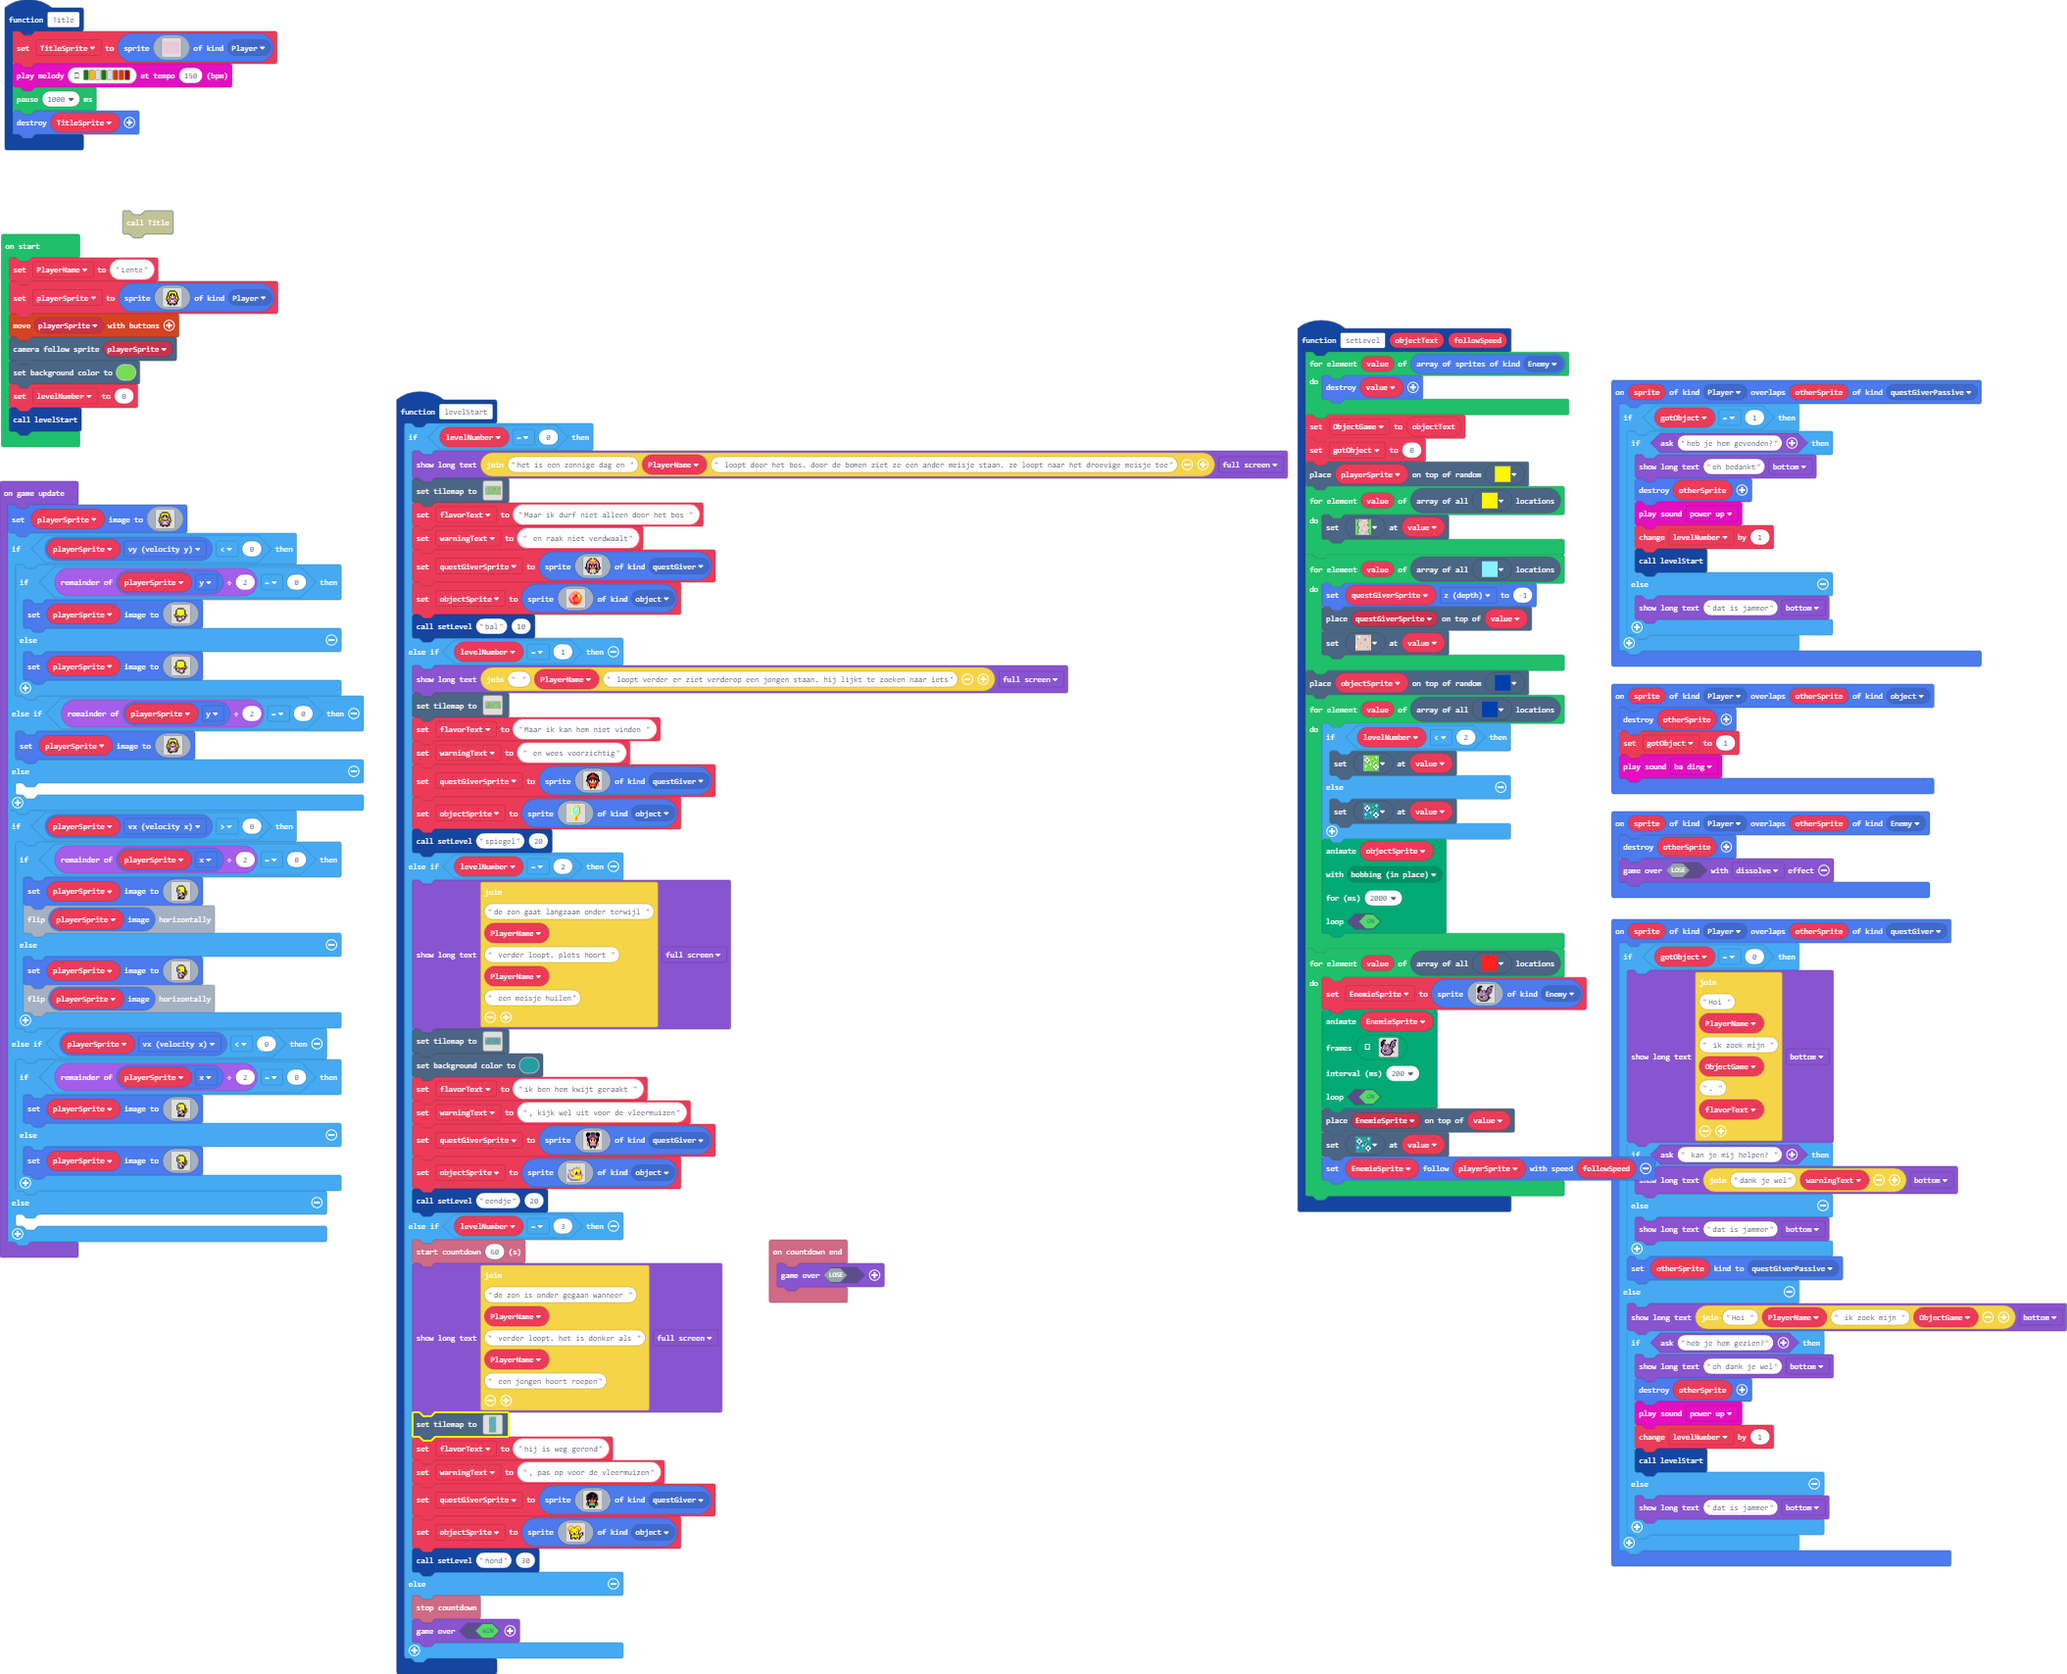
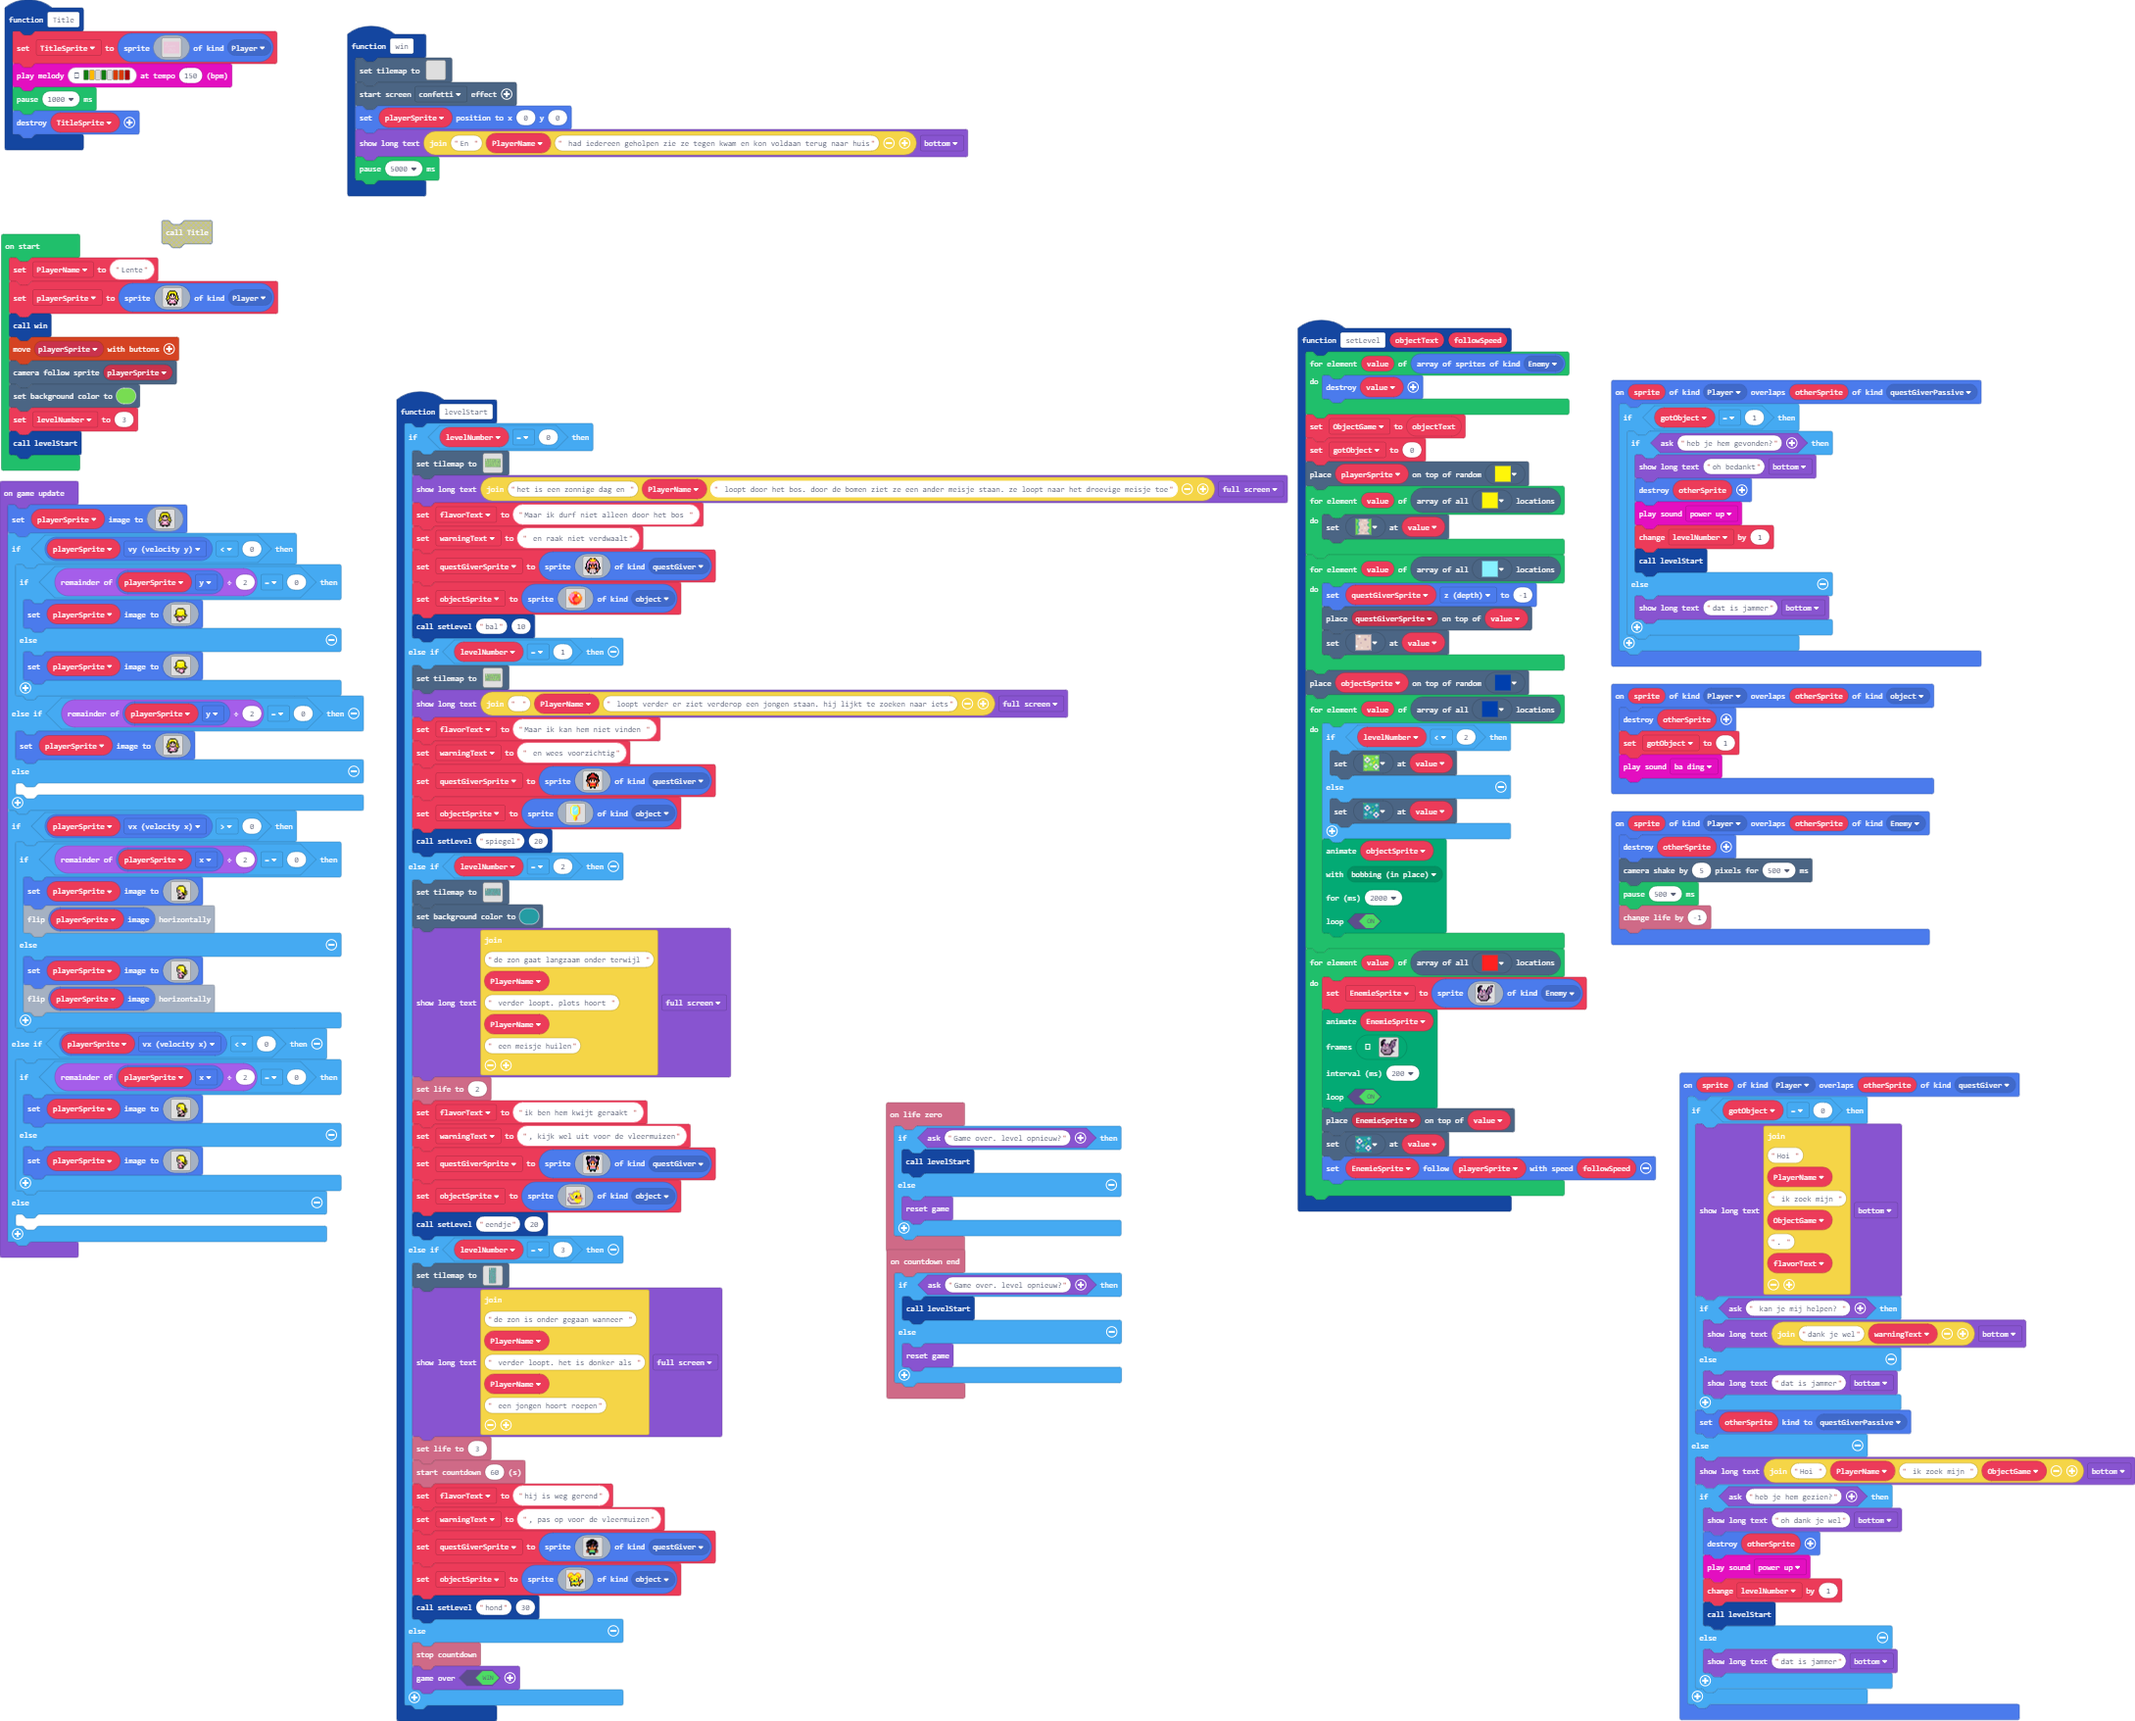
changed win condistions

diff --git a/main.ts b/main.ts
@@ -255,7 +255,6 @@ c c c f f f f f f c c b b c . .
 }
 function levelStart () {
     if (levelNumber == 0) {
-        game.showLongText("het is een zonnige dag en " + PlayerName + " loopt door het bos. door de bomen ziet ze een ander meisje staan. ze loopt naar het droevige meisje toe", DialogLayout.Full)
         tiles.setTilemap(tiles.createTilemap(
[1 lines of base64/hex data omitted]
             img`
@@ -286,6 +285,7 @@ function levelStart () {
             [myTiles.tile0,sprites.castle.tileGrass1,sprites.castle.tilePath2,sprites.castle.tilePath1,sprites.castle.tilePath3,sprites.castle.tilePath5,sprites.castle.tilePath4,sprites.castle.tilePath6,sprites.castle.tilePath7,sprites.castle.tilePath9,sprites.castle.tileGrass3,sprites.castle.tileGrass2,sprites.builtin.forestTiles18,sprites.builtin.forestTiles17,sprites.builtin.forestTiles19,sprites.castle.tilePath8,sprites.castle.saplingOak,sprites.castle.saplingPine,sprites.castle.rock1,sprites.castle.rock0,sprites.castle.rock2,myTiles.tile1,myTiles.tile2,myTiles.tile3,myTiles.tile4,myTiles.tile5,myTiles.tile6,sprites.castle.shrub,sprites.builtin.forestTiles0,sprites.builtin.forestTiles2,sprites.builtin.forestTiles3,sprites.builtin.forestTiles22,sprites.builtin.forestTiles21,sprites.builtin.forestTiles4,sprites.builtin.forestTiles1,sprites.castle.tileDarkGrass3],
             TileScale.Sixteen
         ))
+        game.showLongText("het is een zonnige dag en " + PlayerName + " loopt door het bos. door de bomen ziet ze een ander meisje staan. ze loopt naar het droevige meisje toe", DialogLayout.Full)
         flavorText = "Maar ik durf niet alleen door het bos "
         warningText = " en raak niet verdwaalt"
         questGiverSprite = sprites.create(img`
@@ -326,7 +326,6 @@ f b b f f f e e e e f f f b b f
 `, SpriteKind.object)
         setLevel("bal", 10)
     } else if (levelNumber == 1) {
-        game.showLongText("" + PlayerName + " loopt verder er ziet verderop een jongen staan. hij lijkt te zoeken naar iets", DialogLayout.Full)
         tiles.setTilemap(tiles.createTilemap(
[1 lines of base64/hex data omitted]
             img`
@@ -353,6 +352,7 @@ f b b f f f e e e e f f f b b f
             [myTiles.tile0,sprites.castle.tileGrass1,sprites.castle.tilePath2,sprites.castle.tilePath1,sprites.castle.tilePath3,sprites.castle.tilePath5,sprites.castle.tilePath4,sprites.castle.tilePath6,sprites.castle.tilePath7,sprites.castle.tilePath9,sprites.castle.tileGrass3,sprites.castle.tileGrass2,sprites.builtin.forestTiles18,sprites.builtin.forestTiles17,sprites.builtin.forestTiles19,sprites.castle.tilePath8,sprites.castle.saplingOak,sprites.castle.saplingPine,sprites.castle.rock1,sprites.castle.rock0,sprites.castle.rock2,myTiles.tile1,myTiles.tile2,myTiles.tile3,myTiles.tile4,myTiles.tile5,myTiles.tile6,sprites.castle.shrub,sprites.castle.tileDarkGrass1,sprites.castle.tileDarkGrass3,sprites.castle.tileDarkGrass2],
             TileScale.Sixteen
         ))
+        game.showLongText("" + PlayerName + " loopt verder er ziet verderop een jongen staan. hij lijkt te zoeken naar iets", DialogLayout.Full)
         flavorText = "Maar ik kan hem niet vinden "
         warningText = " en wees voorzichtig"
         questGiverSprite = sprites.create(img`
@@ -393,7 +393,6 @@ f b b f f f e e e e f f f b b f
 `, SpriteKind.object)
         setLevel("spiegel", 20)
     } else if (levelNumber == 2) {
-        game.showLongText("de zon gaat langzaam onder terwijl " + PlayerName + " verder loopt. plots hoort " + PlayerName + " een meisje huilen", DialogLayout.Full)
         tiles.setTilemap(tiles.createTilemap(
[1 lines of base64/hex data omitted]
             img`
@@ -421,6 +420,8 @@ f b b f f f e e e e f f f b b f
             TileScale.Sixteen
         ))
         scene.setBackgroundColor(6)
+        game.showLongText("de zon gaat langzaam onder terwijl " + PlayerName + " verder loopt. plots hoort " + PlayerName + " een meisje huilen", DialogLayout.Full)
+        info.setLife(2)
         flavorText = "ik ben hem kwijt geraakt "
         warningText = ", kijk wel uit voor de vleermuizen"
         questGiverSprite = sprites.create(img`
@@ -461,10 +462,8 @@ c b d d d d d 5 5 5 5 5 5 5 b .
 `, SpriteKind.object)
         setLevel("eendje", 20)
     } else if (levelNumber == 3) {
-        info.startCountdown(60)
-        game.showLongText("de zon is onder gegaan wanneer " + PlayerName + " verder loopt. het is donker als " + PlayerName + " een jongen hoort roepen", DialogLayout.Full)
         tiles.setTilemap(tiles.createTilemap(
[2 lines of base64/hex data omitted]
             img`
 2 2 2 2 2 2 2 2 2 2 2 2 2 2 2 2 2 2 2 
 2 . . . . . 2 . . . . . . . . . . . 2 
@@ -512,6 +511,9 @@ c b d d d d d 5 5 5 5 5 5 5 b .
             [myTiles.tile0,sprites.castle.tileGrass1,sprites.castle.tilePath2,sprites.castle.tilePath1,sprites.castle.tilePath3,sprites.castle.tilePath5,sprites.castle.tilePath4,sprites.castle.tilePath6,sprites.castle.tilePath7,sprites.castle.tilePath9,sprites.castle.tileGrass3,sprites.castle.tileGrass2,sprites.builtin.forestTiles18,sprites.builtin.forestTiles17,sprites.builtin.forestTiles19,sprites.castle.tilePath8,sprites.castle.saplingOak,sprites.castle.saplingPine,sprites.castle.rock1,sprites.castle.rock0,sprites.castle.rock2,myTiles.tile1,myTiles.tile2,myTiles.tile3,myTiles.tile4,myTiles.tile5,myTiles.tile6,sprites.castle.shrub,sprites.castle.tileDarkGrass3,sprites.castle.tileDarkGrass1,sprites.castle.tileDarkGrass2],
             TileScale.Sixteen
         ))
+        game.showLongText("de zon is onder gegaan wanneer " + PlayerName + " verder loopt. het is donker als " + PlayerName + " een jongen hoort roepen", DialogLayout.Full)
+        info.setLife(3)
+        info.startCountdown(60)
         flavorText = "hij is weg gerend"
         warningText = ", pas op voor de vleermuizen"
         questGiverSprite = sprites.create(img`
@@ -567,6 +569,35 @@ sprites.onOverlap(SpriteKind.Player, SpriteKind.questGiverPassive, function (spr
         }
     }
 })
+function win () {
+    tiles.setTilemap(tiles.createTilemap(
+            hex`1000100000000000000000000000000000000000000000000000000000000000000000000000000000000000000000000000000000000000000000000000000000000000000000000000000000000000000000000000000000000000000000000000000000000000000000000000000000000000000000000000000000000000000000000000000000000000000000000000000000000000000000000000000000000000000000000000000000000000000000000000000000000000000000000000000000000000000000000000000000000000000000000000000000000000000000000000000000000000000000000000000000000000000000000000000000000000`,
+            img`
+. . . . . . . . . . . . . . . . 
+. . . . . . . . . . . . . . . . 
+. . . . . . . . . . . . . . . . 
+. . . . . . . . . . . . . . . . 
+. . . . . . . . . . . . . . . . 
+. . . . . . . . . . . . . . . . 
+. . . . . . . . . . . . . . . . 
+. . . . . . . . . . . . . . . . 
+. . . . . . . . . . . . . . . . 
+. . . . . . . . . . . . . . . . 
+. . . . . . . . . . . . . . . . 
+. . . . . . . . . . . . . . . . 
+. . . . . . . . . . . . . . . . 
+. . . . . . . . . . . . . . . . 
+. . . . . . . . . . . . . . . . 
+. . . . . . . . . . . . . . . . 
+`,
+            [myTiles.tile0,myTiles.tile1,myTiles.tile2,myTiles.tile3,myTiles.tile4,myTiles.tile5,myTiles.tile6],
+            TileScale.Sixteen
+        ))
+    effects.confetti.startScreenEffect()
+    playerSprite.setPosition(0, 0)
+    game.showLongText("En " + PlayerName + " had iedereen geholpen zie ze tegen kwam en kon voldaan terug naar huis", DialogLayout.Bottom)
+    pause(5000)
+}
 function Title () {
     TitleSprite = sprites.create(img`
 3 3 3 3 3 3 3 3 3 3 3 3 3 3 3 3 3 3 3 3 3 3 3 3 3 3 3 3 3 3 3 3 3 3 3 3 3 3 3 3 3 3 3 3 3 3 3 3 3 3 3 3 3 3 3 3 3 3 3 3 3 3 3 3 3 3 3 3 3 3 3 3 3 3 3 3 3 3 3 3 3 3 3 3 3 3 3 3 3 3 3 3 3 3 3 3 3 3 3 3 3 3 3 3 3 3 3 3 3 3 3 3 3 3 3 3 3 3 3 3 3 3 3 3 3 3 3 3 3 3 3 3 3 3 3 3 3 3 3 3 3 3 3 3 3 3 3 3 3 3 3 3 3 3 3 3 3 3 3 3 
@@ -696,7 +727,9 @@ function Title () {
 }
 sprites.onOverlap(SpriteKind.Player, SpriteKind.Enemy, function (sprite, otherSprite) {
     otherSprite.destroy()
-    game.over(false, effects.dissolve)
+    scene.cameraShake(5, 500)
+    pause(500)
+    info.changeLifeBy(-1)
 })
 sprites.onOverlap(SpriteKind.Player, SpriteKind.questGiver, function (sprite, otherSprite) {
     if (gotObject == 0) {
@@ -726,7 +759,18 @@ sprites.onOverlap(SpriteKind.Player, SpriteKind.object, function (sprite, otherS
     music.baDing.play()
 })
 info.onCountdownEnd(function () {
-    game.over(false)
+    if (game.ask("Game over. level opnieuw?")) {
+        levelStart()
+    } else {
+        game.reset()
+    }
+})
+info.onLifeZero(function () {
+    if (game.ask("Game over. level opnieuw?")) {
+        levelStart()
+    } else {
+        game.reset()
+    }
 })
 let TitleSprite: Sprite = null
 let warningText = ""
@@ -758,10 +802,11 @@ playerSprite = sprites.create(img`
 . . . f f f f f f f f f f . . . 
 . . . . . f f . . f f . . . . . 
 `, SpriteKind.Player)
+win()
 controller.moveSprite(playerSprite)
 scene.cameraFollowSprite(playerSprite)
 scene.setBackgroundColor(7)
-levelNumber = 0
+levelNumber = 3
 levelStart()
 game.onUpdate(function () {
     playerSprite.setImage(img`
